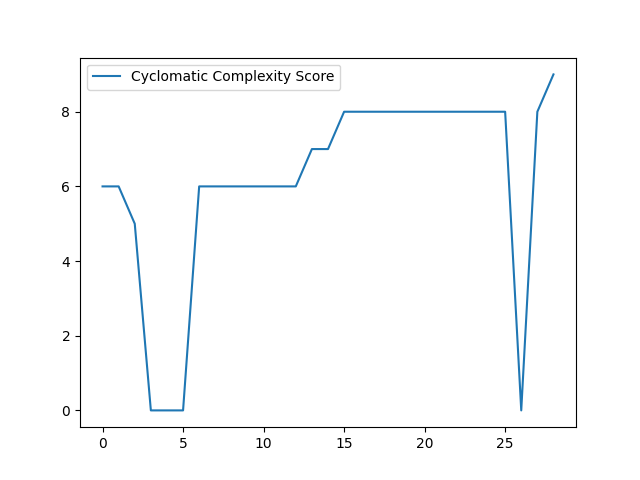
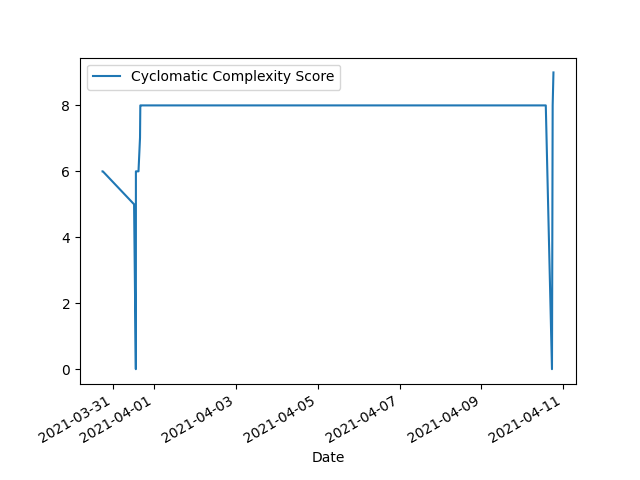
Correct x-axis for raw metrics and cyclomatic complexity.

diff --git a/action-traction/action_traction/quality_score.py b/action-traction/action_traction/quality_score.py
@@ -125,11 +125,12 @@ def determine_halstead_metrics(source_code_dataframe, yaml_dataframe):
     return halstead_data
 
 
-def determine_cyclomatic_complexity(yaml_dataframe):
+def determine_cyclomatic_complexity(yaml_dataframe, source_code_dataframe):
     total_complexity_list = []
     complexity_dict = {}
     abstract_trees_list = yaml_dataframe["Parse Status"].tolist()
     file_list = yaml_dataframe["File"].tolist()
+    date_list = source_code_dataframe["Date of Commit"].tolist()
 
     for tree in abstract_trees_list:
         if_amount = nested_lookup("if", tree)
@@ -148,10 +149,12 @@ def determine_cyclomatic_complexity(yaml_dataframe):
         total_complexity = if_complexity + elif_complexity + matrix_complexity + with_complexity + env_complexity
         total_complexity_list.append(total_complexity)
 
+    complexity_dict["Date"] = date_list
     complexity_dict["File"] = file_list
     complexity_dict["Cyclomatic Complexity Score"] = total_complexity_list
 
     complexity_data = pd.DataFrame.from_dict(complexity_dict)
+    complexity_data.set_index("Date", inplace=True)
 
     plot = complexity_data.plot()
     figure = plot.get_figure()
@@ -169,7 +172,7 @@ def determine_raw_metrics(source_code_dataframe):
     raw_metrics_dict = {}
     source_code_list = source_code_dataframe["Source Code"].tolist()
     file_list = source_code_dataframe["File"].tolist()
-
+    date_list = source_code_dataframe["Date of Commit"].tolist()
     # print(source_code_list[0])
     for source_code in source_code_list:
         number_comments = source_code.count("#")
@@ -187,7 +190,7 @@ def determine_raw_metrics(source_code_dataframe):
         ncss_ratio = (number_comments / ncss) * 100
         ncss_ratio_list.append(ncss_ratio)
 
-
+    raw_metrics_dict["Date"] = date_list
     raw_metrics_dict["File"] = file_list
     raw_metrics_dict["Number of Comments"] = comments_list
     raw_metrics_dict["LOC"] = lines_code
@@ -196,7 +199,7 @@ def determine_raw_metrics(source_code_dataframe):
     raw_metrics_dict["Comments to Lines of Code Comparison"] = ncss_ratio_list
 
     raw_metrics_data = pd.DataFrame.from_dict(raw_metrics_dict)
-
+    raw_metrics_data.set_index("Date", inplace=True)
     plot = raw_metrics_data.plot()
     figure = plot.get_figure()
 
@@ -280,14 +283,14 @@ def final_score(repository_path, score_choices):
         halstead_data = determine_halstead_metrics(yaml_dataframe, source_code_dataframe)
         print(halstead_data)
     if "Complexity" in score_choices:
-        complexity_data = determine_cyclomatic_complexity(yaml_dataframe)
+        complexity_data = determine_cyclomatic_complexity(yaml_dataframe, source_code_dataframe)
         print(complexity_data)
     if "RawMetrics" in score_choices:
         raw_metrics_data = determine_raw_metrics(source_code_dataframe)
         print(raw_metrics_data)
     if "Maintainability" in score_choices:
-        halstead_data = determine_halstead_metrics(yaml_dataframe)
-        complexity_data = determine_cyclomatic_complexity(yaml_dataframe)
+        halstead_data = determine_halstead_metrics(yaml_dataframe, source_code_dataframe)
+        complexity_data = determine_cyclomatic_complexity(yaml_dataframe, source_code_dataframe)
         raw_metrics_data = determine_raw_metrics(source_code_dataframe)
         combined_data = combine_metrics(halstead_data, complexity_data, raw_metrics_data)
         maintainability_data = calculate_maintainability(combined_data)
